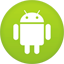
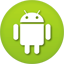
修改platformMark CSS效果； 更换platformMark图标； 增加Tool工具类型platformMark；

diff --git a/src/main/webapp/css/index.css b/src/main/webapp/css/index.css
@@ -58,6 +58,17 @@ div#recentlyWorkList li div.platformMark {
 	text-align: left;
 	top: -170px;
 	left: -10px;
+	height: 64px;
+	width: 64px;
+	border-radius: 32px;
+	-webkit-border-radius: 32px;
+	-moz-border-radius: 32px;
+	box-shadow: 0px 0px 10px 5px #eee;
+	background-color: #eee;
+}
+
+div#recentlyWorkList li div.platformMark img{
+	position: absolute;
 }
 
 div#recentlyWorkList li p {

diff --git a/src/main/webapp/css/lab.css b/src/main/webapp/css/lab.css
@@ -57,6 +57,17 @@ div#projectList li div.platformMark {
 	text-align: left;
 	top: -170px;
 	left: -10px;
+	height: 64px;
+	width: 64px;
+	border-radius: 32px;
+	-webkit-border-radius: 32px;
+	-moz-border-radius: 32px;
+	box-shadow: 0px 0px 10px 5px #eee;
+	background-color: #eee;
+}
+
+div#projectList li div.platformMark img{
+	position: absolute;
 }
 
 div#projectList li p {

diff --git a/src/main/webapp/css/project_manager.css b/src/main/webapp/css/project_manager.css
@@ -52,6 +52,11 @@ div#projectList li div.platformMark {
 	text-align: left;
 	margin:-20px 0px 0px -10px;
 	z-index: 2;
+	border-radius: 32px;
+	-webkit-border-radius: 32px;
+	-moz-border-radius: 32px;
+	box-shadow: 0px 0px 10px 5px #eee;
+	background-color: #eee;
 }
 
 div#projectList li div.platformMark img{
